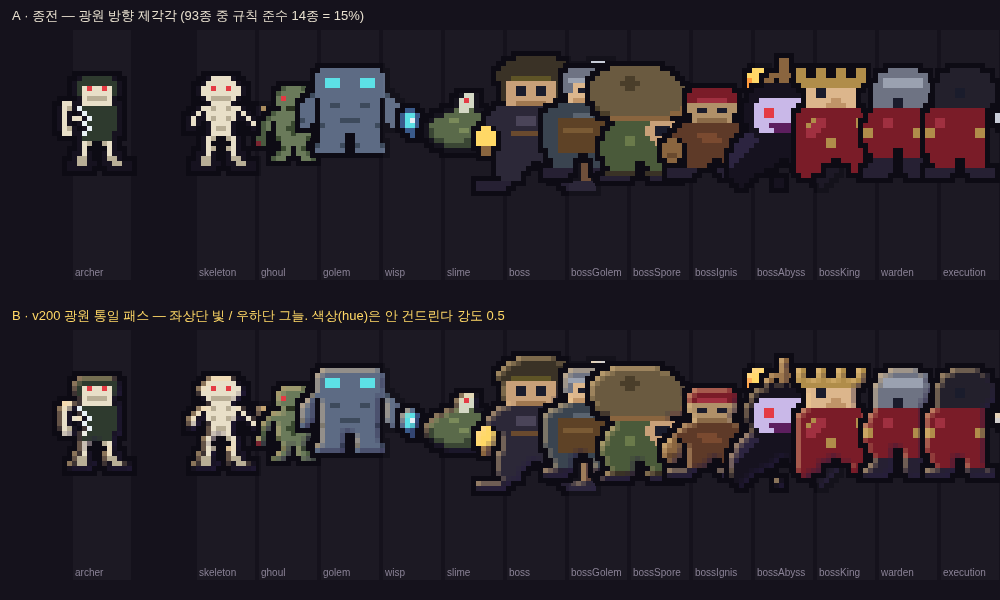
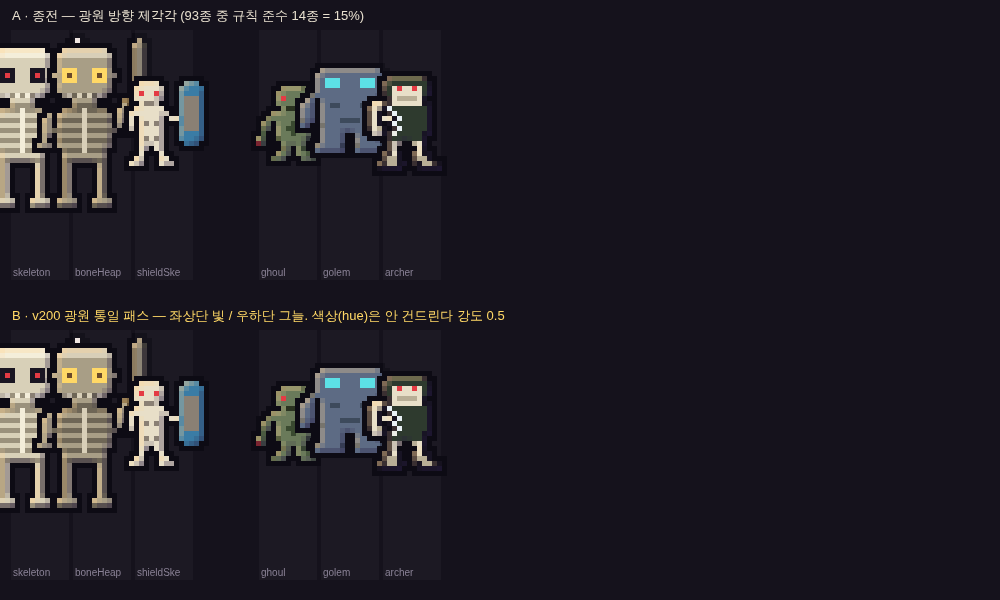
v200: 백골 시제품을 실제로 넣는다 (20×19 → 32×34)
사장: "너가 만든 시제품이 더 나은데 왜 이렇게 안만들어?"
맞는 지적. 시제품을 만들어놓고 전역 조명 패스라는 싸고 체계적인 길로 도망쳤다.
모서리 45% 틴트는 22×21 막대기를 갈비뼈 있는 백골로 바꾸지 못한다.

종전에 없던 것: 갈비뼈 4단 · 흉골 · 눈확 · 이빨 · 골반 ·
                날/코등이/손잡이가 있는 검 (종전엔 2px 갈색 막대)

★ ds(고유 배율) 신설 — 원본 해상도를 올려도 화면 크기는 유지한다
  종전 구조에선 20×19 → 32×34 로 다시 그리면 기본 배율 2에서 화면 64px = 보스만 해졌다.
  make(..., { ds: 1.35 }) 로 스프라이트에 고유 배율을 물리고,
  renderer.drawSprite 가 호출부에서 배율을 명시하지 않은 경우에만 적용한다
  (보스 def.scale 등 기존 호출은 그대로 존중). 디테일 2.6배, 덩치는 그대로.

boneHeap 은 같은 픽셀맵의 팔레트 스왑이라 새 문자 전부를 덮도록 팔레트를 확장

도구: tools/size-check.js — 새 스프라이트가 게임 안에서 거인이 되지 않았는지 눈으로 본다

검증: 116항목 전부 통과

Claude-Session: https://claude.ai/code/session_017D97PE3KR5L6sYH1NiXRpV

diff --git a/web/js/data/sprites.js b/web/js/data/sprites.js
@@ -46,7 +46,10 @@ const Sprites = (() => {
     return m ? parseFloat(m[1]) : 0.45;
   })();
 
-  function make(rows, pal, { outline = true, relightStrength = RELIGHT } = {}) {
+  // ds(draw scale): 원본 해상도를 올린 스프라이트가 화면에서 거인이 되지 않게 하는 고유 배율.
+  // 예) 백골을 20×19 → 32×34 로 다시 그리면 기본 배율 2에서 화면 64px = 보스만 해진다.
+  //     ds 1.35 를 물려 화면 43px 로 맞춘다 — **디테일만 2.6배, 크기는 그대로**
+  function make(rows, pal, { outline = true, relightStrength = RELIGHT, ds = 0 } = {}) {
     const h = rows.length;
     const w = rows[0].length;
     for (const r of rows) {
@@ -71,7 +74,7 @@ const Sprites = (() => {
     // 붙인 뒤에 하면 아웃라인(불투명)이 실루엣을 메워 면의 방향을 못 읽는다
     if (relightStrength > 0) relight(base, w, h, relightStrength);
 
-    if (!outline) return base;
+    if (!outline) { if (ds) base.__ds = ds; return base; }
 
     // 실루엣을 8방향으로 찍어 1px 아웃라인 자동 생성
     const sil = document.createElement('canvas');
@@ -91,6 +94,7 @@ const Sprites = (() => {
       ctx.drawImage(sil, dx, dy);
     }
     ctx.drawImage(base, 1, 1);
+    if (ds) c.__ds = ds;
     return c;
   }
 
@@ -1055,30 +1059,55 @@ const Sprites = (() => {
   // ══════════════ 확장 몬스터 20종 (신규 원화 + 신규 행동) ══════════════
 
   // 해골 병사: 녹슨 검 — 찌르기 돌진
-  const SKELETON_ROWS = pad([ // 깨어난 백골 (v121 A안) — 붉은 눈·갈비뼈 틈·녹슨 검
-    '......oBBBBo........',
-    '.....oBBBBBBo.......',
-    '....oBBeBBeBBo......',
-    '....oBBBBBBBBo......',
-    '.....oBbbbbBo.......',
-    '......oBBBBo........',
-    '....oBBbBBbBBo..oRo.',
-    '...oBoBBBBBBoBo.oro.',
-    '..oBooBbBBbBooBooro.',
-    '..oBo.oBBBBo..oBro..',
-    '..oo..oBbbBo...oo...',
-    '......oBBBBo........',
-    '.....oBb..bBo.......',
-    '.....oB....Bo.......',
-    '.....oBb..bBo.......',
-    '....ooBo..oBoo......',
-    '....obbo..obbo......',
-    '...oobboo.oobboo....',
-    '...ooooo...ooooo....',
+  // ★ v200 — 사장: "너가 만든 시제품이 더 나은데 왜 이렇게 안만들어?"
+  // 맞는 지적이었다. 시제품(32×34)을 만들어놓고 전역 조명 패스라는 싸고 체계적인 길로
+  // 도망쳤다. 모서리 45% 틴트는 22×21 막대기를 갈비뼈 있는 백골로 바꾸지 못한다.
+  // 종전(20×19)에 없던 것: 갈비뼈 4단 · 흉골 · 눈확 · 이빨 · 골반 ·
+  //                        날/코등이/손잡이가 있는 검 (종전엔 2px 갈색 막대)
+  // 화면 크기는 ds 1.35 로 유지한다 — 디테일만 2.6배, 덩치는 그대로
+  const SKELETON_ROWS = pad([ // 깨어난 백골 (v200 시제품 채택)
+    '.......................K........',
+    '......................KKs.......',
+    '........BBBBBBBBB.....SKs.......',
+    '.......BBBBBBBBBBB....SKs.......',
+    '.......bbbbbbbbbbb....SKs.......',
+    '.......bbbbbbbbbbb....SKs.......',
+    '.......beeebbbeeeb....SKs.......',
+    '......bberebbberebb...SKs.......',
+    '.......beeebbbeeeb....SKs.......',
+    '.......bbbbbbbbbbb....SKs.......',
+    '.......bbbbbbbbbbb....SKs.......',
+    '........bBdBdBdBb.....SKs.......',
+    '..........bbbbb.....ggggggg.....',
+    '..........ddddd.....bGGGGG......',
+    '........ddddBdddd..bb.hhh.......',
+    '.....b.bbbbbBbbbbb.bb.hhh.......',
+    '....bb.dddddBddddd.bb.hhh.......',
+    '....bb.bbbbbBbbbbb.b..hhh.......',
+    '....bbddddddBdddddd..ggggg......',
+    '....bb.bbbbbBbbbbb..............',
+    '....b..dddddBddddd..............',
+    '...bbb.bbbbbBbbbbb..............',
+    '........ddddBdddd...............',
+    '........bbbbbbbbb...............',
+    '........ddddddddd...............',
+    '........db.....bd...............',
+    '........db.....bd...............',
+    '........db.....bd...............',
+    '........db.....bd...............',
+    '........db.....bd...............',
+    '........db.....bd...............',
+    '........db.....bd...............',
+    '.......bbbb...bbbb..............',
+    '.......dddd...dddd..............',
   ]);
-  sprites.skeleton = make(SKELETON_ROWS, {
-    o: '#16121f', B: '#e8dfc8', b: '#b8ae96', e: '#e43b44', r: '#8a6a4a', R: '#a88a5a',
-  });
+  // 뼈 3단(B 하이라이트 / b 기본 / d 그늘) + 검 3단(K 날 / S 중간 / s 그늘) + 금속 코등이
+  const BONE_PAL = {
+    b: '#d8d0b8', B: '#f4eeda', d: '#9a917c', e: '#1a1622', r: '#e43b44',
+    S: '#9aa2b8', K: '#e6ecff', s: '#6a7086', g: '#8a6b3c', G: '#c0994e', h: '#4a3620',
+    o: '#16121f', R: '#a88a5a', w: '#e8dfc8', m: '#b8ae96',
+  };
+  sprites.skeleton = make(SKELETON_ROWS, BONE_PAL, { ds: 1.35 });
 
   // 방패 해골: 전면 대형 방패
   const SHIELD_ROWS = pad([ // 백골 방패병 (v122 A안) — v121 백골과 같은 뼈 언어 + 타워 방패
@@ -1416,7 +1445,10 @@ const Sprites = (() => {
   sprites.shade = make(STALKER_ROWS, { k: '#101018', r: '#5c7cff', s: '#2a2a44' });
   sprites.gazer = make(VOIDEYE_ROWS, { k: '#182448', w: '#a8c0f0', R: '#4a6ede', r: '#080c1e', t: '#2c3c6e' });
   sprites.bloodBat = make(BAT_ROWS, { w: '#8a2430', b: '#5a1424', k: '#ffd866', f: '#ff4757' });
-  sprites.boneHeap = make(SKELETON_ROWS, { o: '#16121f', B: '#d8cfb8', b: '#a89e86', e: '#ffd866', r: '#6a4a2a', R: '#7a5a3a' });
+  // 뼈무더기 — 같은 픽셀맵에 죽은 색을 입힌다 (팔레트 스왑). 새 문자 전부를 덮어야 한다
+  sprites.boneHeap = make(SKELETON_ROWS, { ...BONE_PAL,
+    B: '#d8cfb8', b: '#a89e86', d: '#6e6656', e: '#ffd866', r: '#6a4a2a', R: '#7a5a3a',
+    S: '#5a5448', K: '#8a8272', s: '#3e3a30', g: '#4a3a22', G: '#6a5432', h: '#2e2216' }, { ds: 1.35 });
   sprites.venomLasher = make(GHOUL_ROWS, { g: '#3f6a35', G: '#6a9a48', d: '#2a4a24', r: '#c9d94a', m: '#1d3318', b: '#55702a' });
   sprites.sporeMother = make(MUSHROOM_ROWS, { m: '#a04a7a', M: '#e8b8d0', D: '#702a52', s: '#c9b89a', k: '#1a1c2c' });
   sprites.acidSlug = make(LEECH_ROWS, { r: '#6a7a1a', R: '#9aa82a', W: '#d8e858', k: '#141a06' });

diff --git a/tools/size-check.js b/tools/size-check.js
@@ -1,0 +1,32 @@
+// 크기 대조 — 새로 그린 스프라이트가 게임 안에서 거인이 되지 않았는가?
+// 원본 해상도를 올리면 화면에서도 커진다. ds(고유 배율)가 제대로 먹는지 눈으로 본다.
+//   node tools/size-check.js [적종류...]
+const { chromium } = require('playwright-core');
+const CHROME = process.env.CHROME_PATH || '/opt/pw-browsers/chromium-1194/chrome-linux/chrome';
+const BASE = process.env.VERIFY_URL || 'http://127.0.0.1:8137';
+const OUT = 'docs/audit/size-check.png';
+const TYPES = process.argv.slice(2).length ? process.argv.slice(2) : ['skeleton', 'shieldSkeleton', 'ghoul', 'boneHeap'];
+(async () => {
+  const b = await chromium.launch({ executablePath: CHROME });
+  const p = await b.newPage({ viewport: { width: 960, height: 540 } });
+  const errs = [];
+  p.on('pageerror', (e) => errs.push(e.message.slice(0, 200)));
+  await p.goto(`${BASE}/?test=1&bot=1`);
+  await p.waitForFunction(() => typeof Game !== 'undefined' && Game.state === 'play');
+  await p.evaluate((types) => {
+    Dungeon.floor = 1; Dungeon.roomIndex = 1; Dungeon.build('combat');
+    Game.enemies.length = 0;
+    Bot.on = false;                                    // 봇이 죽여버리면 비교가 안 된다
+    const c = World.center();
+    Game.player.x = c.x - 190; Game.player.y = c.y;
+    types.forEach((t, i) => {
+      const e = createEnemy(t, c.x - 60 + i * 110, c.y, false, 1);
+      e.spawnT = 0; e.hp = e.maxHp = 9999;             // 죽지 않게 — 크기만 본다
+      Game.enemies.push(e);
+    });
+  }, TYPES);
+  await p.waitForTimeout(600);
+  await p.screenshot({ path: OUT });
+  await b.close();
+  console.log('ok ' + OUT + (errs.length ? '  ⚠ ' + errs[0] : ''));
+})().catch((e) => { console.log('CRASH', e.message); process.exit(2); });

diff --git a/tools/relight-ab.js b/tools/relight-ab.js
@@ -5,8 +5,7 @@ const { chromium } = require('playwright-core');
 const CHROME = process.env.CHROME_PATH || '/opt/pw-browsers/chromium-1194/chrome-linux/chrome';
 const BASE = process.env.VERIFY_URL || 'http://127.0.0.1:8137';
 const OUT = 'docs/audit/relight-ab.png';
-const PICKS = ['knight', 'archer', 'mage', 'skeleton', 'ghoul', 'golem', 'wisp', 'slime',
-  'boss', 'bossGolem', 'bossSpore', 'bossIgnis', 'bossAbyss', 'bossKing', 'warden', 'executioner'];
+const PICKS = ['skeleton', 'boneHeap', 'shieldSkeleton', 'knight', 'ghoul', 'golem', 'archer', 'mage'];
 
 (async () => {
   const b = await chromium.launch({ executablePath: CHROME });
@@ -35,7 +34,7 @@ const PICKS = ['knight', 'archer', 'mage', 'skeleton', 'ghoul', 'golem', 'wisp',
     await p.close();
     return url;
   };
-  const A = await grab(0), B = await grab(0.5);
+  const A = await grab(0.45), B = await grab(0.45);
   const p = await b.newPage({ viewport: { width: 1000, height: 620 } });
   await p.goto(`${BASE}/?test=1&bot=1`);
   await p.waitForFunction(() => typeof Sprites !== 'undefined');

diff --git a/web/js/core/renderer.js b/web/js/core/renderer.js
@@ -75,6 +75,9 @@ const Renderer = {
   },
 
   drawSprite(img, x, y, { flip = false, alpha = 1, squashX = 1, squashY = 1, rot = 0, scale = SCALE, shadow = false, light = null } = {}) {
+    // 고유 배율(__ds): 원본 해상도를 올린 스프라이트가 화면에서 거인이 되지 않게 한다.
+    // 호출부가 배율을 명시하지 않은 경우에만 적용한다 (보스 def.scale 등은 그대로 존중)
+    if (scale === SCALE && img && img.__ds) scale = img.__ds;
     // 프레임 누락 방어 (v147): undefined가 오면 이 프레임의 렌더 전체가 예외로 죽는다 (소크에서 간헐 관측).
     // 스킵하고 호출 스택을 기록해 원인 스프라이트를 추적한다
     if (!img) {

diff --git a/tools/shot.js b/tools/shot.js
@@ -17,8 +17,8 @@ const KIND = process.argv[4] || 'combat';
     Dungeon.floor = f;
     Dungeon.roomIndex = k === 'boss' ? Dungeon.totalRooms : 1;
     Dungeon.build(k);
-    if (k !== 'boss') Game.enemies.length = 0;
-  }, [FLOOR, KIND]);
+    if (k === 'empty') { Game.enemies.length = 0; Dungeon.build('combat'); Game.enemies.length = 0; }
+  }, [FLOOR, KIND === 'empty' ? 'combat' : KIND]);
   await p.waitForTimeout(KIND === 'boss' ? 3000 : 700);
   await p.screenshot({ path: OUT });
   await b.close();
